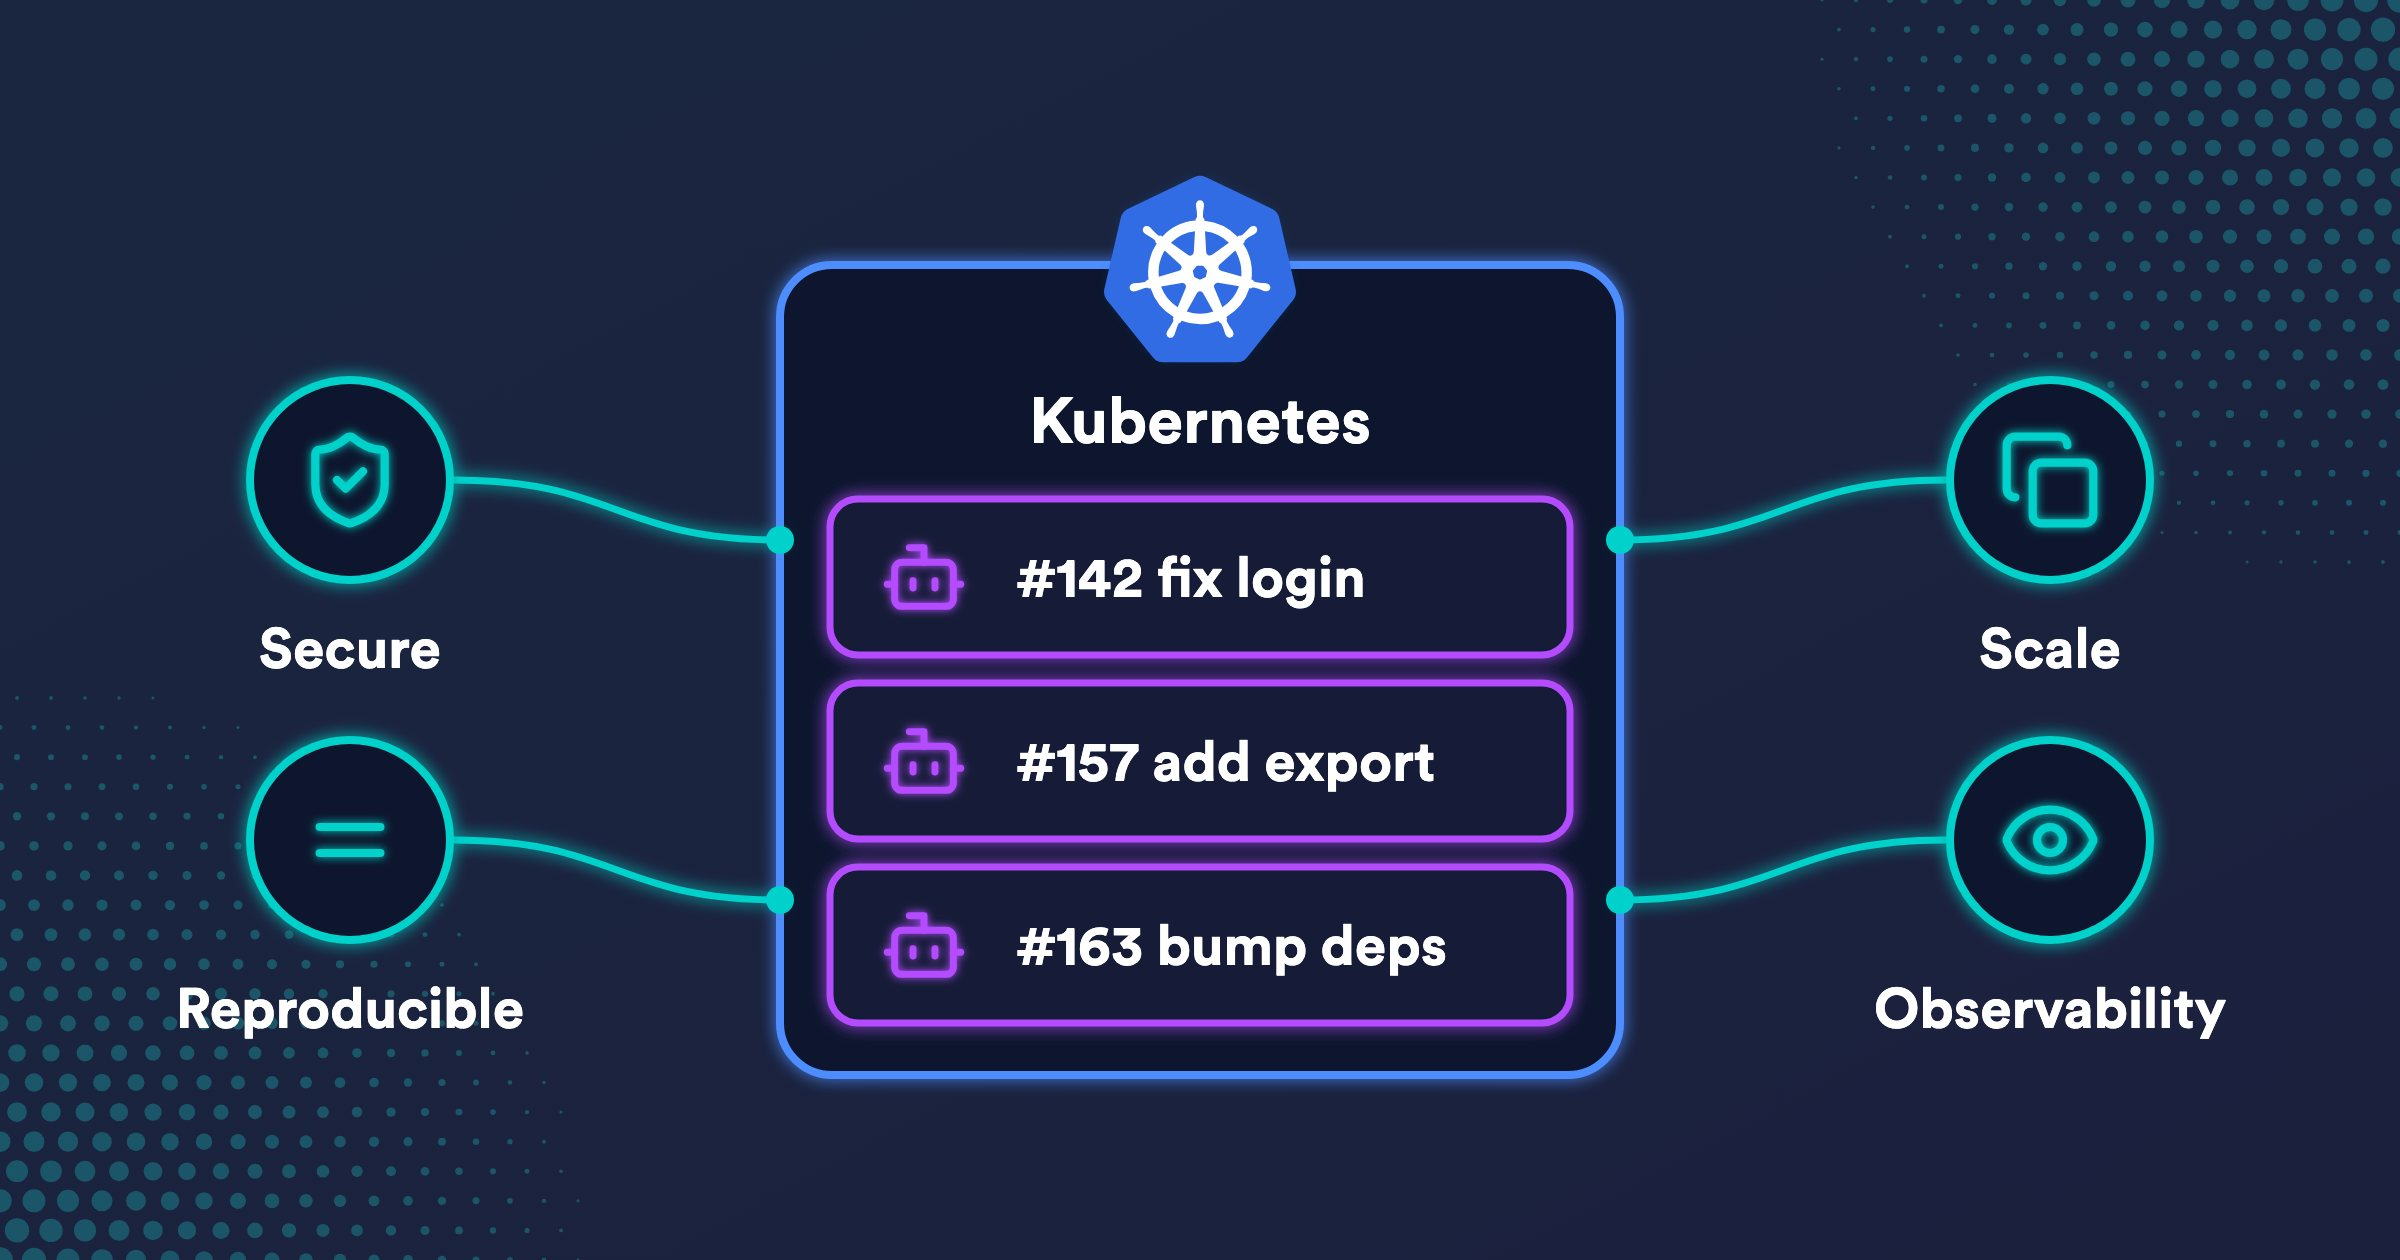
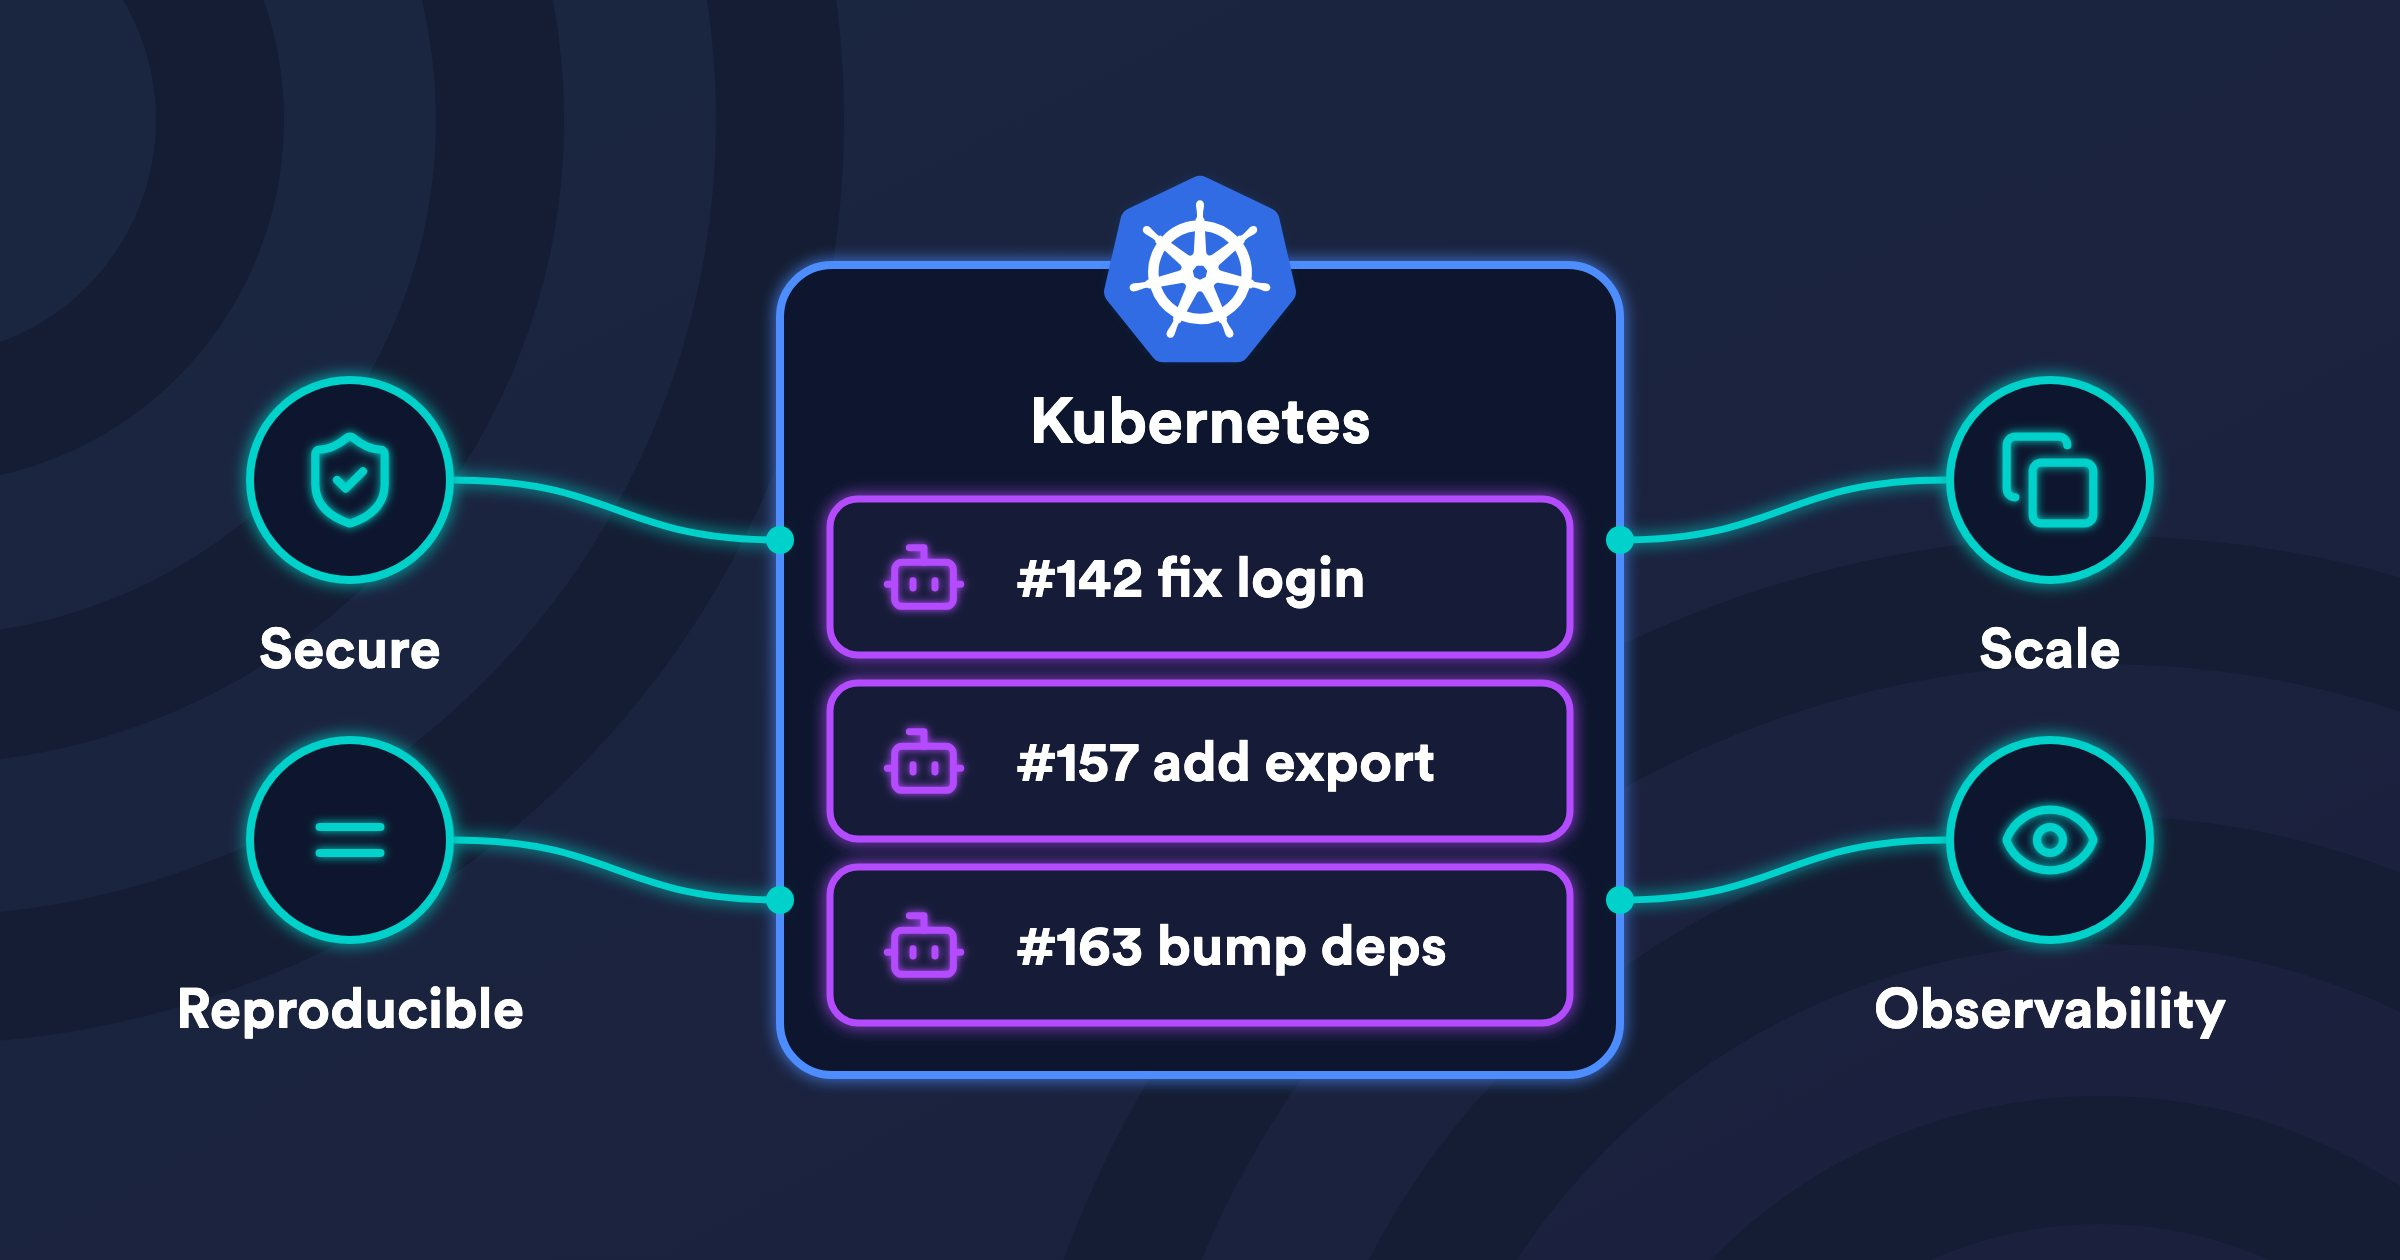
Four cover backgrounds, varied between posts
dots, weave, rings and grid, all on the blog's navy and taken from the older
covers. Each cover picks one with its background field.

Changed region(s): [[0.0, 0.7119, 0.1562, 1.0], [0.8438, 0.0, 1.0, 0.2476], [0.9062, 0.2786, 1.0, 0.3095]]

diff --git a/AGENTS.md b/AGENTS.md
@@ -70,7 +70,7 @@ File extension is `.mdx` for content pages. Frontmatter requires a `description`
 Every blog post has a cover image. The covers of the new posts share one style, defined in `scripts/covers/style.mjs` (older posts keep the cover they had until it is redrawn):
 
 - **Subject:** what the article is about, never its title (the title is already next to the image). Draw a schematic of the idea (a flow, a box with its parts, a comparison), or big logos when the article is about an integration (`Okteto + Argo`, `Helm to Kubernetes`).
-- **Look:** neon lines on the navy background of the older blog covers (`#1a2640`), with halftone dots fading from two corners (bottom left and top right). Nothing goes behind the subject: no grid, sun, stars, or patterns.
+- **Look:** neon lines on the navy of the older blog covers (`#1a2640`), over one of four backgrounds taken from them: `dots` (halftone dots fading from two corners), `weave` (a band of halftone dots across the cover), `rings` (wide concentric rings from two corners), and `grid` (a faint grid in perspective along the bottom edge). Set it with `background` in the cover's entry, and vary it from one cover to the next so consecutive posts don't look the same.
 - **Simplicity:** one idea, a handful of shapes, and few labels of one to three words, in Circular Bold. The image has to read at the width of a card (about 300px).
 - **Colors:** teal (`#00d1ca`) for Okteto and for environments, blue (`#4d8dff`) for Kubernetes boxes, purple (`#b44cff`) for agents, and amber (`#ffb13b`) or red (`#ff5c7a`) for warnings, cost, and blocked paths.
 
@@ -80,7 +80,7 @@ When you draw the subject:
 - Draw only what the article covers. Don't add related concepts to fill the image.
 - Don't wrap elements in extra boxes or layers. A control over a connection, such as RBAC, is a label on the arrow, not a box around one of its ends.
 - An application looks like a real one: its Kubernetes resources by name (HTTPRoute, Service, Pods, Volume) in a short chain, not generic shapes.
-- Leave a margin of about 80px on each side: the blog cards crop the sides of the image. Keep labels away from the two dotted corners.
+- Leave a margin of about 80px on each side: the blog cards crop the sides of the image. Pick a background that keeps the labels readable: with `dots`, keep labels away from the two dotted corners; with `grid`, keep the subject off the bottom edge.
 - Draw one or two covers first and iterate on them with the user before applying a change of style to many.
 
 ### Logos and icons
@@ -92,7 +92,7 @@ When you draw the subject:
 
 ### Adding or changing a cover
 
-1. Add or edit the entry in `scripts/covers/covers.mjs`: the output path, the `alt` text, and the subject, built with the helpers of `style.mjs` (`row`, `group`, `hub`, `badge`, `tile`, `mark`, and others). Start from the closest existing cover.
+1. Add or edit the entry in `scripts/covers/covers.mjs`: the output path, the background, the `alt` text, and the subject, built with the helpers of `style.mjs` (`row`, `group`, `hub`, `badge`, `tile`, `mark`, and others). Start from the closest existing cover.
 2. Run `node scripts/covers/render.mjs <filter>`. The filter is a part of the output path, such as the post's folder; without it, the script renders every cover. It needs Google Chrome. Blog covers are 2400x1260.
 3. Look at the image, also at the size of a card, and simplify it until it reads at a glance.
 4. In the post, set the cover and its alternative text (the `alt` of the entry) in the frontmatter:
